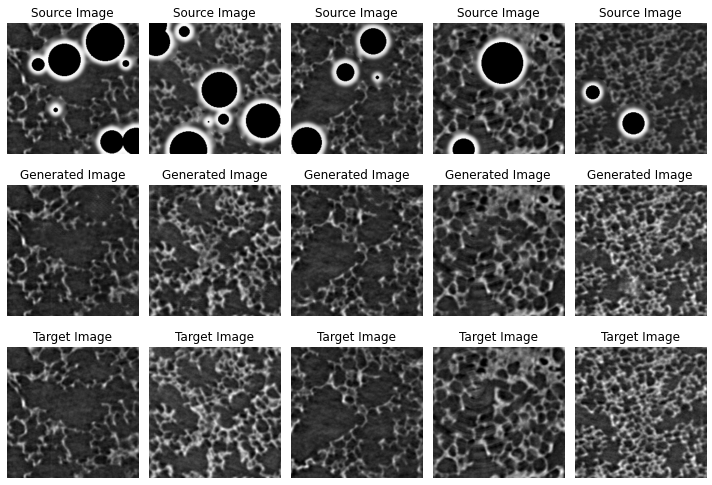
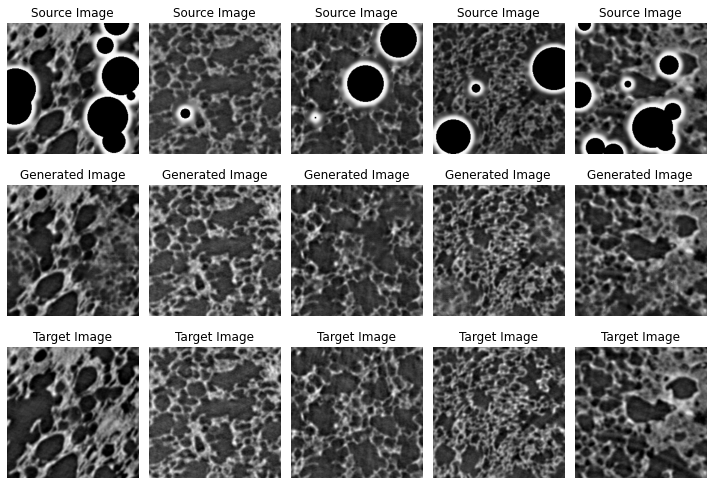
added saving name. new image and spelling in Readme

diff --git a/pix2pix_with_synthetic_air.py b/pix2pix_with_synthetic_air.py
@@ -64,8 +64,8 @@ model = load_model('models/src2tar_with_synthetic_air_after_165000.h5')
 test_src_img_dir = os.path.join(data_dir, 'with_air\\test')
 test_tar_img_dir = os.path.join(data_dir, 'without_air\\test')
 
-test_src_img = utils.load_images_in_shape(src_img_dir, color_mode = 'grayscale')
-test_tar_img = utils.load_images_in_shape(tar_img_dir, color_mode = 'grayscale')
+test_src_img = utils.load_images_in_shape(test_src_img_dir, color_mode = 'grayscale')
+test_tar_img = utils.load_images_in_shape(test_tar_img_dir, color_mode = 'grayscale')
 
 def plot_src_gen_tar(src, tar, gen_model, sample_size=5):
     idx = np.random.randint(0, len(src), sample_size)

diff --git a/README.md b/README.md
@@ -39,7 +39,7 @@ Another idea is to identify the airbubbles in the sample and extract the airbubb
 After the data preprocessing with the synthetic air and actual air pairs a pix2pix model is trained with both the datasets. 
 
 ### 1. Training with synthetic air
-The pix2pix model is trained for 30 epochs with a batch size of 1 and with 5500 sample paires. Figure below shows the result using the test source and target pairs with generated target images.
+The pix2pix model is trained for 30 epochs with a batch size of 1 and with 5500 sample pairs. Figure below shows the result using the test source and target pairs with generated target images.
 
 <p align="center">
     <img src="images/training_with_synthetic_air.png" alt="training_with_synthetic_air">
